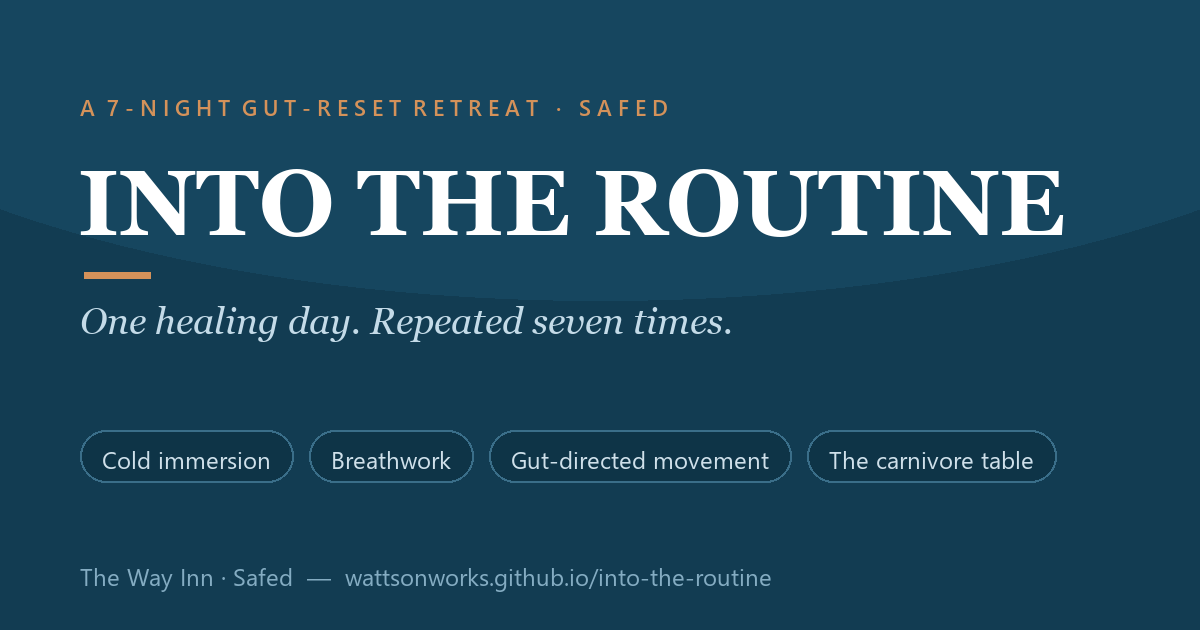
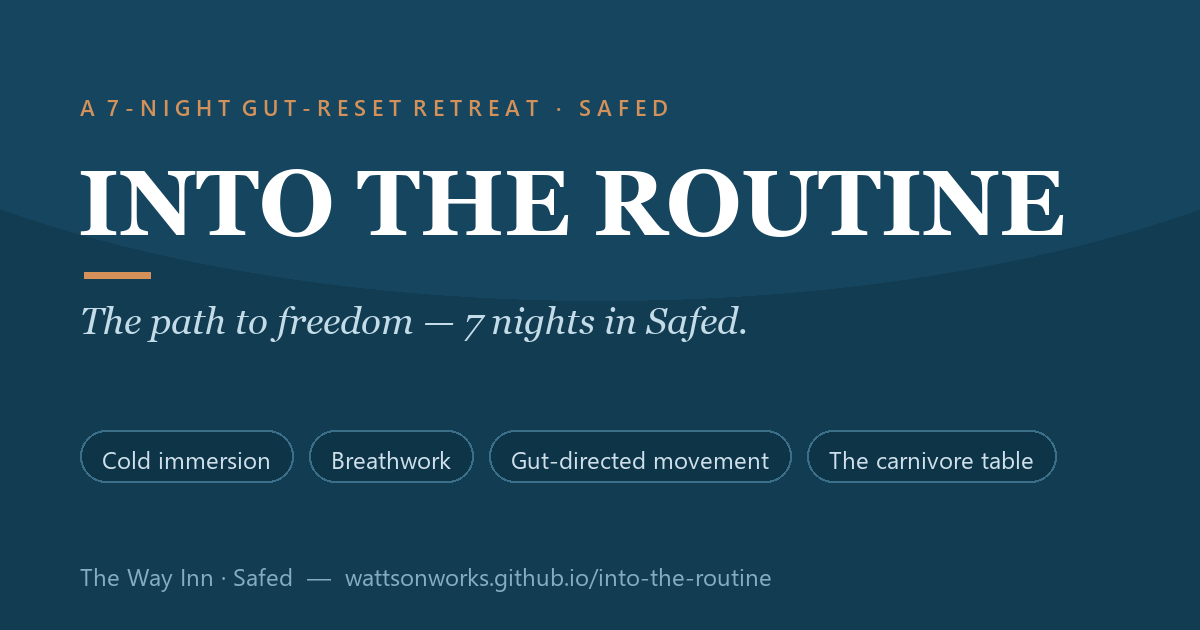
Morning mineral-water protocol (Kalahari + Mg-glycinate + K-ascorbate, slow-sip); OG refreshed to The Path to Freedom

Changed region(s): [[0.0617, 0.4825, 0.6167, 0.5429]]

diff --git a/index.html b/index.html
@@ -323,7 +323,7 @@
   <p class="lede">The whole product is one carefully sequenced day, repeated for seven mornings. Disrupt at dawn, eat in a tight window, move hard on real terrain, plunge while warm-bodied, then fast long and let the night run clean.</p>
   <div class="path-wrap">
     <div class="path-line"></div>
-    <div class="step"><div class="node">06:30</div><div class="c"><div class="time">Wake</div><h4>Warm water + a pinch of salt</h4><p>A gentle start. No coffee, ever — it hijacks the gut's real rhythm.</p></div></div>
+    <div class="step"><div class="node">06:30</div><div class="c"><div class="time">Wake</div><h4>The morning mineral water</h4><p>Kalahari salt + magnesium glycinate + potassium ascorbate, blended into the day's first water and <b>sipped slowly</b> — never gulped, so it never triggers any bloating. Minerals before anything else. No coffee, ever.</p></div></div>
     <div class="step"><div class="node">06:45</div><div class="c"><div class="time">Move</div><h4>Ginger ritual → terrain walk</h4><p>Chew fresh ginger, then walk the waking lanes — your natural, coordinated "coffee."</p></div></div>
     <div class="step"><div class="node">07:15</div><div class="c"><div class="time">Breathe</div><h4>Morning Calm — the 4-in / 4-out belly breath</h4><p>The breath that releases the angle, with knees-to-chest and child's pose. An unhurried, no-strain bathroom window.</p></div></div>
     <div class="step"><div class="node">08:00</div><div class="c"><div class="time">Meal 1 · ~100g</div><h4>First carnivore meal + bone broth</h4><p>Six long exhales before the first bite. (Take your own prescribed morning meds with food.)</p></div></div>
@@ -375,6 +375,7 @@
   <h2>House rules &amp; FYIs</h2>
   <p class="lede">Small rules with outsized effect — the heat, cold and timing disciplines that protect the work. They become second nature by day three.</p>
   <div class="rules">
+    <div class="rule"><b>Morning minerals, sipped slowly</b><span>Kalahari salt + magnesium glycinate + potassium ascorbate blended into your first water — <b>sip slowly</b>, never gulp, so it never bloats. Your mineral base for the day.</span></div>
     <div class="rule"><b>Never hot water on the belly</b><span>Hot water is never directed onto the abdomen — heat there relaxes and bloats a gut you're trying to wake and move.</span></div>
     <div class="rule"><b>Hot showers stay short</b><span>4–5 minutes total, maximum. Long hot showers are sedating and counter-productive to the reset.</span></div>
     <div class="rule"><b>Always finish cold</b><span>Every hot shower ends with at least one full minute of cold water — a daily nervous-system reset.</span></div>
@@ -396,7 +397,7 @@
     <li><b>Three meals, measured.</b> About <b>100g</b> at the first meal, <b>150g+</b> at the second, <b>150g</b> at the third — enough to fuel and fat-adapt, never enough to overload a healing gut. Meals ~08:00 / 12:00 / 16:00 — <b>last meal 16:00, nothing after 17:00.</b></li>
     <li><b>Pressure-cooked in MCT oil — not beef fat.</b> Lean protein with no fat is hard on the gut; but heavy animal fat needs bile many of us are short on and can sit and stall the lower gut. So the meat is pressure-cooked in <b>MCT oil</b> — medium-chain fat absorbed straight into the <em>upper</em> GI, no bile required — giving the protein its fat without leaving a fatty load to irritate downstream. As the gut heals we step toward <b>coconut oil</b>, a gentle part-MCT fat, to bring normal fat back onto the protein without irritation.</li>
     <li><b>Bone broth, daily, as medicine.</b> Pressure-cooked for hours into collagen, glycine and minerals — sipped warm throughout.</li>
-    <li><b>Clean flavour with Kalahari salt.</b> We elevate plain, clean beef with <b>Kalahari salt</b> — a desert rock salt from ancient underground brine (not modern sea water), additive-free, ~98% sodium chloride. Being desert-sourced, it's free of the microplastics that now contaminate sea salts, with low heavy-metal levels in independent analyses. Clean sodium, no fillers, no gums — plus added potassium and magnesium (the real electrolytes).</li>
+    <li><b>Clean flavour with Kalahari salt.</b> We elevate plain, clean beef with <b>Kalahari salt</b> — a desert rock salt from ancient underground brine (not modern sea water), additive-free, ~98% sodium chloride. Being desert-sourced, it's free of the microplastics that now contaminate sea salts, with low heavy-metal levels in independent analyses. It's the mineral base of the <b>morning water</b> — blended with <b>magnesium glycinate</b> (calming, non-laxative) and <b>potassium ascorbate</b> (gentle, buffered) and sipped slowly. Clean sodium, no fillers, no gums.</li>
     <li><b>What we leave out — and why.</b> <b>Eggs</b> (especially whites) are high in sulfur amino acids that feed H₂S — reintroduced late, yolks first. <b>Butter/dairy</b> slows gastric emptying (worse for methane constipation) and can irritate. <b>Black pepper</b> and spice-irritants inflame a raw gut. No sugar, grains, fermentable fibre, coffee or alcohol — the overgrowth's fuel.</li>
     <li><b>Careful reintroductions</b> toward the end of the week — one variable at a time — the method you take home.</li>
   </ul>